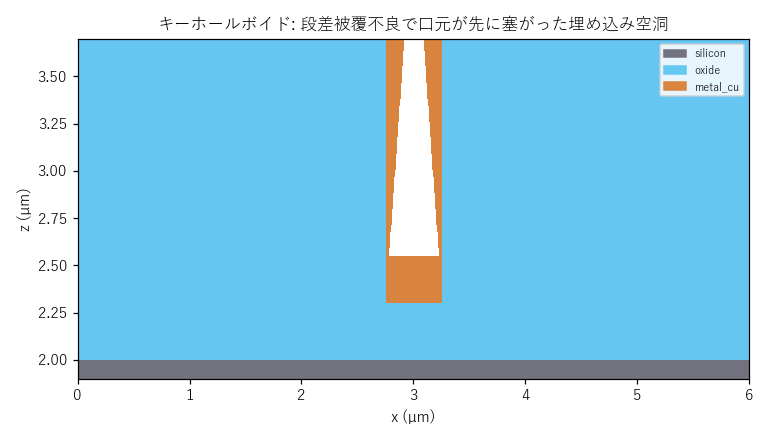
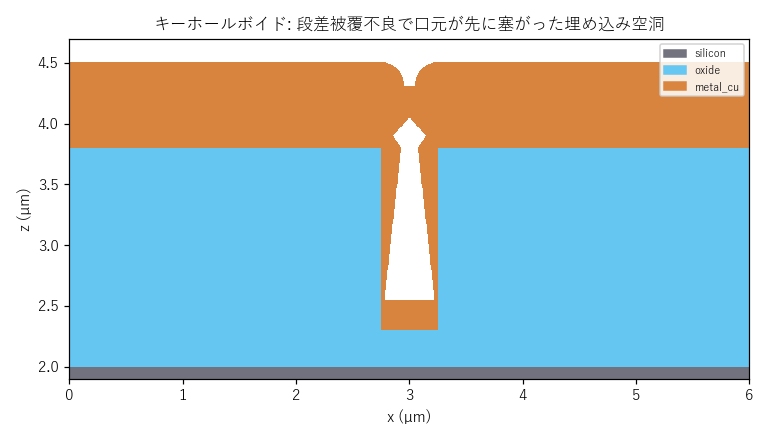
修正: キーホールボイド図が封止口元を枠外にして誤解を招く (#90)
マニュアルのキーホールボイド断面図（defect_void.png）の ylim=(1.9,3.7) が
狭すぎ、口元が金属で塞がる封止部（z≈4.0）と空洞の上端ピンチが枠外になって
いた。このため「口元が先に塞がった埋め込み空洞」という題と裏腹に、封止が
見えず開いたトレンチのように誤解され、ティアドロップ空洞の形も分かり
づらかった。

ylim を (1.9,4.7) に拡大し、被覆金属の上面・封止口元まで含めて表示。
これで上方ほど細るティアドロップ空洞が金属で封止される様子が一目で
分かるようになる（構造自体は元から正しく、表示範囲のみの問題）。

defect_void.png を再生成。

diff --git a/tools/build_manual.py b/tools/build_manual.py
@@ -517,8 +517,11 @@ def defect_section() -> tuple[str, str]:
     r.add(Strip(material="photoresist"))
     r.add(PVD(material="metal_cu", thickness_um=0.7, step_coverage=0.72, overhang=0.5))
     w = r.simulate()
+    # ylim はトレンチ底〜被覆金属の上面まで含め、口元が塞がった様子（埋め込み
+    # 空洞の上端が金属で封止される）まで見えるようにする。狭く切ると封止部が
+    # 枠外になり、ティアドロップ空洞が開いたトレンチのように誤解されるため。
     render(w, "キーホールボイド: 段差被覆不良で口元が先に塞がった埋め込み空洞",
-           "defect_void.png", ylim=(1.9, 3.7))
+           "defect_void.png", ylim=(1.9, 4.7))
     vm = metrology.void_metrics(w)
     rep = metrology.defect_report(w)
     has_void = "検出" if vm["count"] > 0 else "なし"
